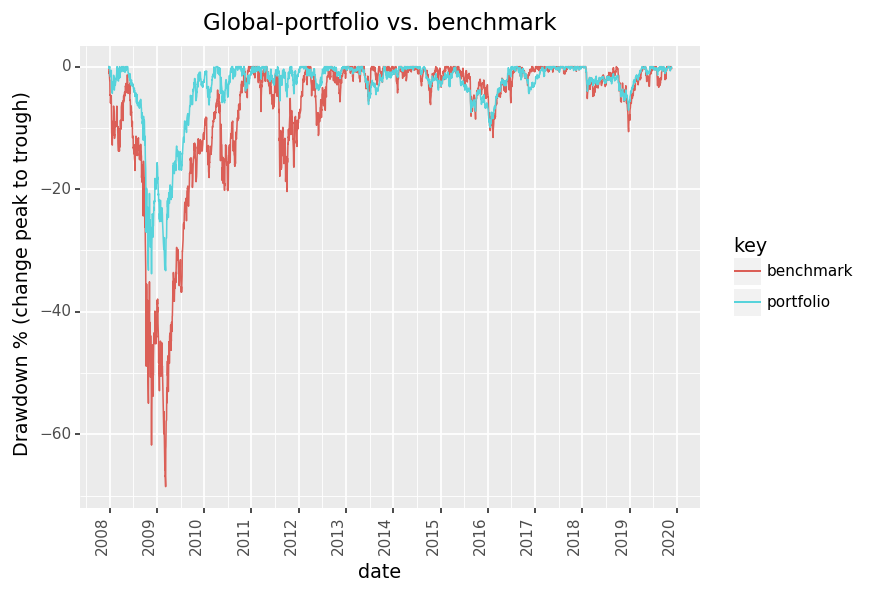
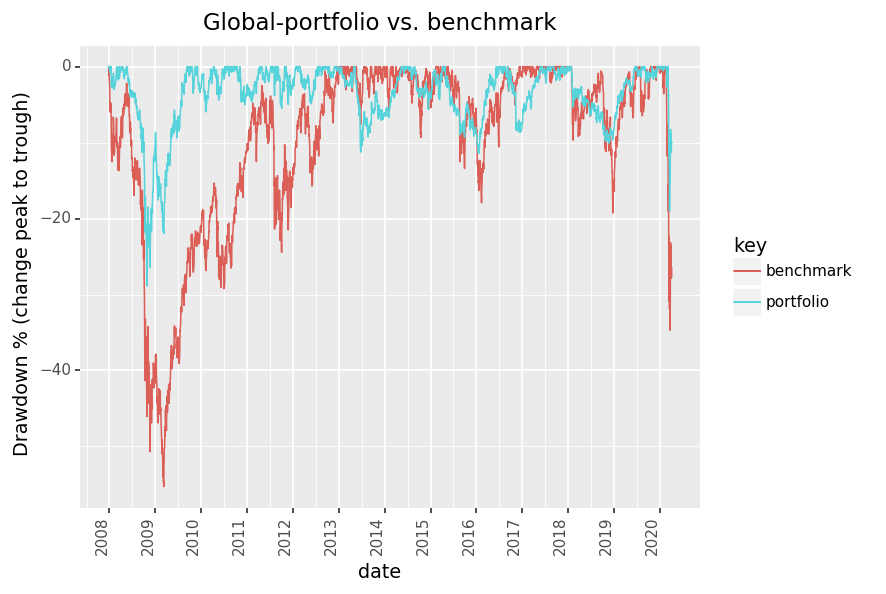
portfolio_cumulative_returns

diff --git a/assess-portfolio-historic-performance.py b/assess-portfolio-historic-performance.py
@@ -27,7 +27,7 @@ def get_daily_portfolio_returns(daily_log_returns, final_ticker_weights):
     portfolio_simple_returns = \
         pd.DataFrame({'portfolio_simple_returns': portfolio_simple_returns}, \
         index=daily_simple_returns.index)
-    portfolio_cumulative_returns = portfolio_simple_returns.cumsum()
+    portfolio_cumulative_returns = (1 + portfolio_simple_returns).cumprod() - 1
     portfolio_cumulative_returns = portfolio_cumulative_returns. \
                                 rename(columns={"portfolio_simple_returns": "returns"})
     return portfolio_simple_returns, portfolio_cumulative_returns
@@ -153,7 +153,8 @@ def main():
                                     +'daily-log-returns-per-ticker.csv', index_col = 0)
     benchmark_simple_returns = pd.read_csv(data_path+portfolio_name
                                         +'benchmark-simple-returns.csv', index_col = 0)
-    benchmark_cum_returns = benchmark_simple_returns.cumsum()
+    benchmark_cum_returns = (1 + benchmark_simple_returns).cumprod() - 1
+
     final_ticker_weights = pd.read_csv(results_path+portfolio_name
                                     +'final-ticker-weights.csv')
     simple_returns, cumulative_returns = \
